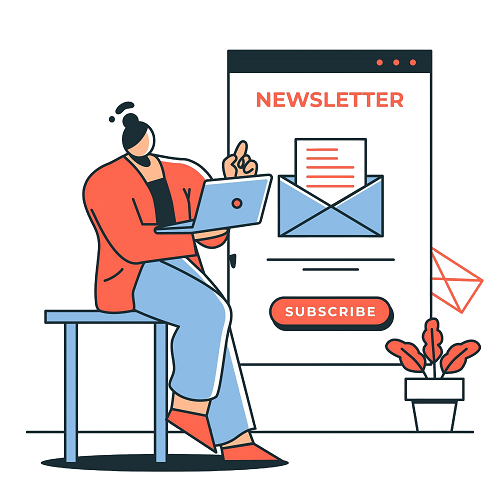
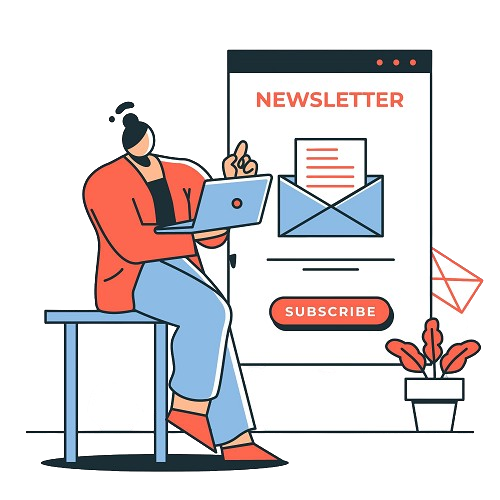
pagina contato 2

diff --git a/index.html b/index.html
@@ -127,15 +127,21 @@
         <section class="contato2">
             <div class="botoes-contato">
                 <h2>Estamos à disposição, conecte-se com a gente!</h2>
-                <a href="https://wa.me/5511998874528" target="_blank">
+                
                     <div class="atend-wpp">
+                        <a href="https://wa.me/5511998874528" target="_blank">
+                            <img src="./imagens/wpp-icon.png" alt="botão atendimento whatsapp">
+                            <span>Entre em contato pelo WhatsApp</span>
+                        </a>
+                    </div>
+                    <!-- <div class="atend-wpp">
                         <img src="./imagens/wpp-icon.png" alt="botão atendimento whatsapp">
                         <span>Entre em contato pelo WhatsApp</span>
-                    </div>
-                </a>
+                    </div> -->
+                
             </div>
             <div class="contato2-img">
-                <img src="" alt="">
+                <img src="./imagens/newsletter-concept-illustration.png" alt="">
             </div>
         </section>
         

diff --git a/css/style.css b/css/style.css
@@ -264,32 +264,47 @@ header {
  /* CONTATO 2*/
 
  .contato2{
+    display: grid;
+    grid-template-columns: repeat(2, 1fr);
+    align-items: center;
+    max-width: 1100px;
+    margin: auto;
+ }
 
+ .botoes-contato{
+ }
+
+ .botoes-contato h2{
+    max-width: 283px;
+    margin: auto;
+    color: rgb(43, 86, 180);
  }
 
  .contato2 a{
     text-decoration: none;
     color: white;
-    /* font-weight:700; */
+    font-weight:700;
     font-size: 1.5rem;
+    display: flex;
+    align-items: center;
+    padding: 10px 20px;
  }
 
- .botoes-contato{
-
- }
-
-.atend-wpp{
+ .atend-wpp{
     background-color: #60D669;
     align-items: center;
     display: flex;
     max-width: fit-content;
-    padding: 10px 20px;
-    border-radius: 10px;
+    border-radius: 8px;
+    margin: auto;
 } 
 
-.atend-wpp span{
+.atend-wpp > a > span{
    margin-left: 20px;
 } 
+
+ .contato2 img{
+}
 
 /* BOTÃO WHATSAPP */
 
